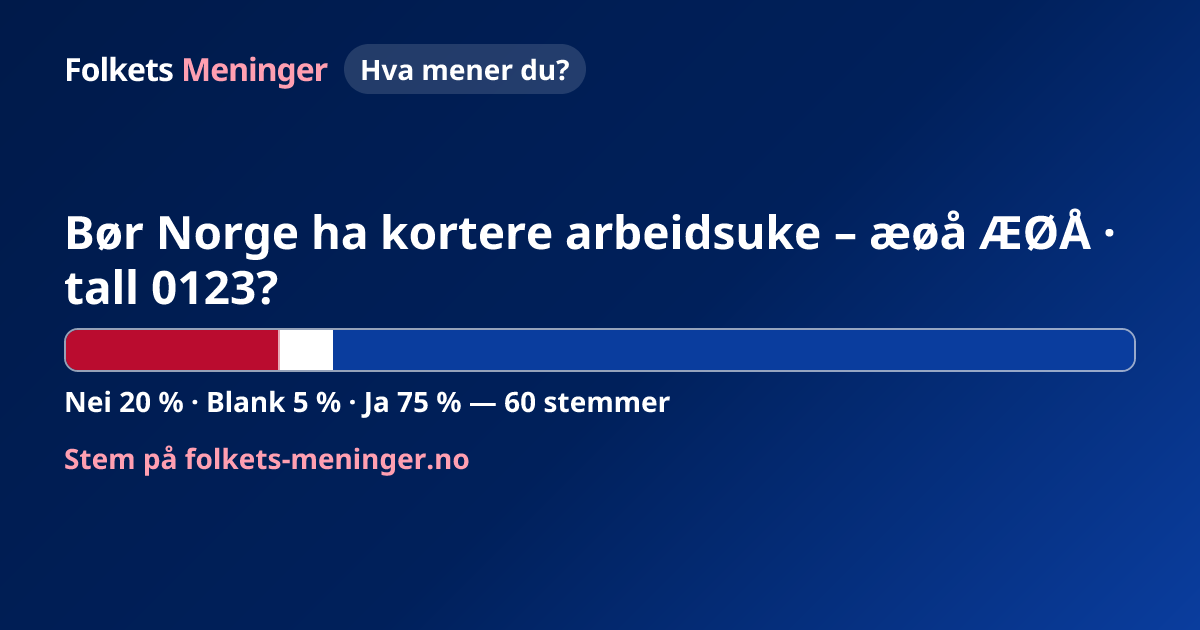
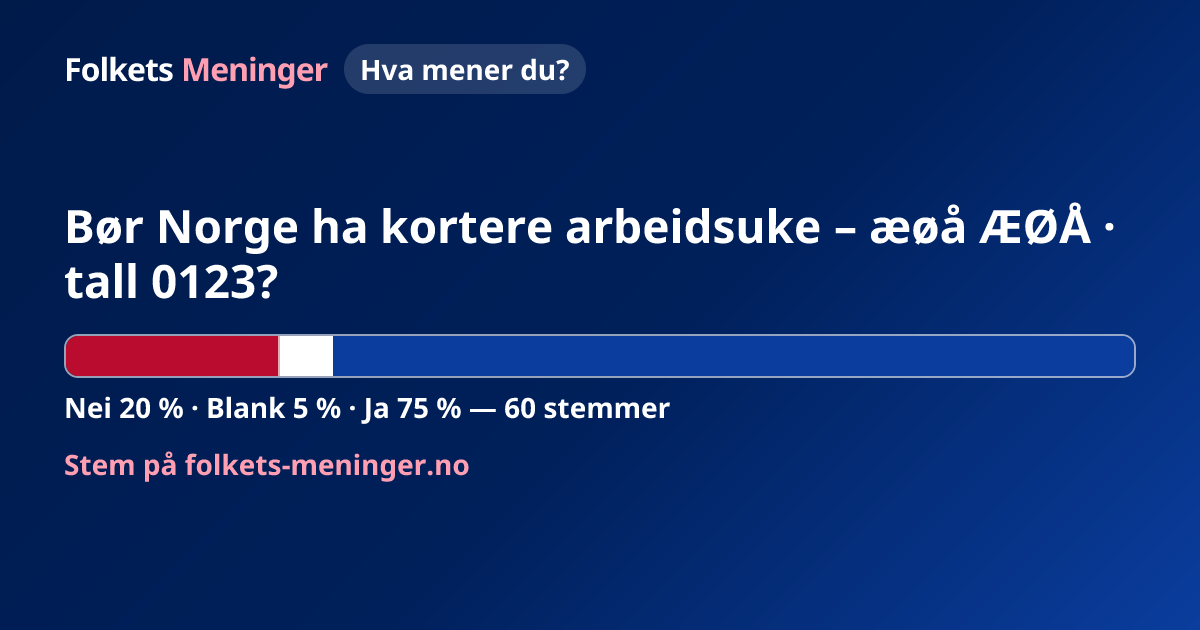
fix(og): hev 46px tittel-cap til 90 tegn og mer luft til bar
Oppfølging #254: POLL_OG_TITLE_46PX_CHAR_CAP 84→90, +12px margin under
tittel før ingress/resultatbar. Tester og oppdaterte docs/og-samples.

diff --git a/lib/polls/share-og.tsx b/lib/polls/share-og.tsx
@@ -29,6 +29,10 @@ const BAR_SEGMENT_GAP = '2px solid rgba(255,255,255,0.65)';
 const TITLE_MAX_LINES = 2;
 /** Summary only when the title fits on a single line at max size. */
 const SUMMARY_TITLE_MAX_CHARS = 46;
+/** Extra space between the title block and ingress / result bar (added to flex gap). */
+export const POLL_OG_TITLE_TO_BAR_EXTRA_GAP_PX = 12;
+/** Two-line char fallback at 46px title size (Satori line-clamp safety). */
+export const POLL_OG_TITLE_46PX_CHAR_CAP = 90;
 const CARD_PADDING_Y = 44;
 const CARD_PADDING_X = 64;
 
@@ -51,16 +55,16 @@ function clampText(value: string, max: number): string {
   return `${(lastSpace > 20 ? cut.slice(0, lastSpace) : cut).trimEnd()}…`;
 }
 
-function titleFontSize(length: number): number {
-  if (length <= 48) return OG_TITLE_MAX_PX;
-  if (length <= 90) return 46;
+export function pollOgTitleFontSize(charLength: number): number {
+  if (charLength <= 48) return OG_TITLE_MAX_PX;
+  if (charLength <= 90) return 46;
   return 40;
 }
 
 /** Rough two-line capacity at card width (fallback if line-clamp ellipses poorly in Satori). */
-function maxPollTitleChars(fontSize: number): number {
+export function pollOgTitleCharCap(fontSize: number): number {
   if (fontSize >= OG_TITLE_MAX_PX) return 78;
-  if (fontSize >= 46) return 84;
+  if (fontSize >= 46) return POLL_OG_TITLE_46PX_CHAR_CAP;
   return 96;
 }
 
@@ -171,8 +175,8 @@ export async function renderPollShareOgImage(
 ): Promise<ImageResponse> {
   const fonts = await loadOgFonts();
   const rawTitle = clampText(poll.title, 130);
-  const titleSize = titleFontSize(rawTitle.length);
-  const title = clampText(rawTitle, maxPollTitleChars(titleSize));
+  const titleSize = pollOgTitleFontSize(rawTitle.length);
+  const title = clampText(rawTitle, pollOgTitleCharCap(titleSize));
   const showSummary = title.length <= SUMMARY_TITLE_MAX_CHARS && Boolean(poll.neutralSummary);
   const summary = showSummary ? clampText(poll.neutralSummary, 88) : '';
 
@@ -212,7 +216,14 @@ export async function renderPollShareOgImage(
         </div>
 
         <div style={{ display: 'flex', flexDirection: 'column', gap: 14, flex: 1, justifyContent: 'center' }}>
-          <div style={titleBoxStyle(titleSize)}>{title}</div>
+          <div
+            style={{
+              ...titleBoxStyle(titleSize),
+              marginBottom: POLL_OG_TITLE_TO_BAR_EXTRA_GAP_PX,
+            }}
+          >
+            {title}
+          </div>
           {summary ? (
             <div
               style={{

diff --git a/lib/polls/share-og-title.test.ts b/lib/polls/share-og-title.test.ts
@@ -1,0 +1,57 @@
+import assert from 'node:assert/strict';
+import React from 'react';
+import { test } from 'node:test';
+import type { PollRecord } from '@/lib/polls/types';
+import {
+  OG_IMAGE_SIZE,
+  POLL_OG_TITLE_46PX_CHAR_CAP,
+  POLL_OG_TITLE_TO_BAR_EXTRA_GAP_PX,
+  pollOgTitleCharCap,
+  pollOgTitleFontSize,
+  renderPollShareOgImage,
+} from '@/lib/polls/share-og';
+
+(globalThis as typeof globalThis & { React: typeof React }).React = React;
+
+const TITLE_90_CHARS =
+  'Skal staten innføre nye avgiftsregler for næringsliv og privatpersoner i hele landet snart';
+
+test('46px title band keeps font size through 90 chars and caps at 90', () => {
+  assert.equal(POLL_OG_TITLE_46PX_CHAR_CAP, 90);
+  assert.equal(TITLE_90_CHARS.length, 90);
+  assert.equal(pollOgTitleFontSize(TITLE_90_CHARS.length), 46);
+  assert.equal(pollOgTitleFontSize(91), 40);
+  assert.equal(pollOgTitleCharCap(46), 90);
+  assert.equal(pollOgTitleCharCap(52), 78);
+});
+
+test('title-to-bar spacing constant is within requested 8–16px band', () => {
+  assert.ok(POLL_OG_TITLE_TO_BAR_EXTRA_GAP_PX >= 8);
+  assert.ok(POLL_OG_TITLE_TO_BAR_EXTRA_GAP_PX <= 16);
+});
+
+test('90-char poll title renders 1200×630 OG without error', async () => {
+  const poll: PollRecord = {
+    id: 'og-title-90',
+    track: 'system',
+    status: 'open',
+    title: TITLE_90_CHARS,
+    neutralSummary: 'Skjult ingress.',
+    sourceUrls: [],
+    stortingetIssueId: '103102',
+    citizenInitiativeId: null,
+    opensAt: null,
+    closesAt: null,
+    createdAt: '2026-01-01T00:00:00.000Z',
+    updatedAt: '2026-01-01T00:00:00.000Z',
+    expiredAt: null,
+    restoredAt: null,
+    generationMetadata: {},
+  };
+
+  const response = await renderPollShareOgImage(poll, { nei: 12, blank: 3, ja: 45, total: 60 });
+  const buffer = Buffer.from(await response.arrayBuffer());
+  assert.equal(buffer.readUInt32BE(16), OG_IMAGE_SIZE.width);
+  assert.equal(buffer.readUInt32BE(20), OG_IMAGE_SIZE.height);
+  assert.ok(buffer.byteLength > 10_000);
+});

diff --git a/scripts/render-og-samples.ts b/scripts/render-og-samples.ts
@@ -48,9 +48,9 @@ const basePoll: PollRecord = {
 const longTwoLineTitle =
   'Skal staten gå videre med omfattende endringer i skatte- og avgiftsregelverket for næringsliv og privatpersoner i hele landet, også i distriktene, på kort sikt?';
 
-/** ~87 tegn — tittelstørrelse 46px, to linjer + ellipsis uten å kappe descenders. */
-const title85To90Chars =
-  'Skal staten innføre nye avgiftsregler for næringsliv og privatpersoner i hele landet?';
+/** Exactly 90 tegn — tittelstørrelse 46px, to linjer uten å flyte over kortet. */
+const title90Chars =
+  'Skal staten innføre nye avgiftsregler for næringsliv og privatpersoner i hele landet snart';
 
 async function main() {
   mkdirSync(outDir, { recursive: true });
@@ -102,9 +102,9 @@ async function main() {
   );
 
   await savePng(
-    'og-sample-poll-title-85-chars.png',
+    'og-sample-poll-title-90-chars.png',
     await renderPollShareOgImage(
-      { ...basePoll, title: title85To90Chars, neutralSummary: 'Skjult ingress.' },
+      { ...basePoll, title: title90Chars, neutralSummary: 'Skjult ingress.' },
       { nei: 12, blank: 3, ja: 45, total: 60 },
     ),
   );

diff --git a/docs/og-samples/README.md b/docs/og-samples/README.md
@@ -10,7 +10,7 @@ Generated with `OG_SAMPLE_DIR=docs/og-samples npx tsx scripts/render-og-samples.
 | `og-sample-poll-glyphs.png` | æøå ÆØÅ · … |
 | `og-sample-poll-long-title.png` | Lang tittel (2 linjer), uten ingress |
 | `og-sample-poll-long-title-few-votes.png` | Lang tittel + få stemmer |
-| `og-sample-poll-title-85-chars.png` | ~85–90 tegn tittel (2 linjer + …) |
+| `og-sample-poll-title-90-chars.png` | 90 tegn tittel @ 46px (2 linjer) |
 | `og-sample-poll-short-title-summary.png` | Kort tittel + ingress |
 | `og-sample-blog.png` | Blogg-kort |
 | `og-sample-sak.png` | Stortingssak-kort |
